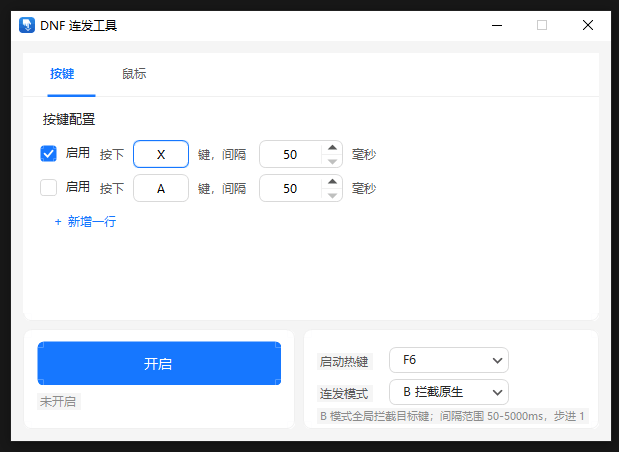
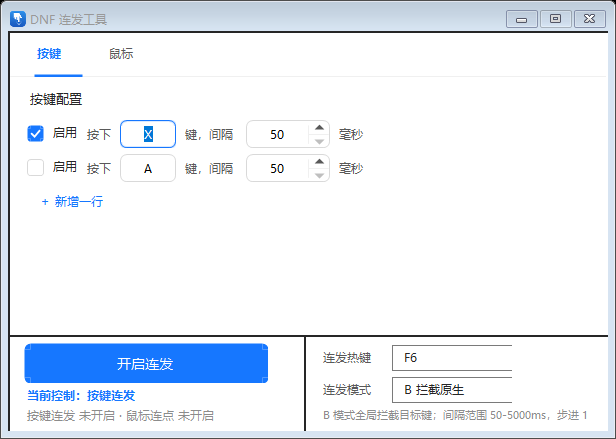
style: 去除留白卡片，改为 2px 深色边框划分三区域
- 移除 AntCard 圆角留白卡片，窗口白底；外框 2px 深色，
  主区/启动区/设置区之间以 2px 深色分隔线区分
- Tab 下边框保持 1px 浅色样式不变
- 按键页行区加高适配新布局；调试入口补 SyncHotkeyUI 同步
- 更新 README 界面预览图

Changed region(s): [[0.0, 0.0, 1.0, 1.0]]

diff --git a/MainForm.cs b/MainForm.cs
@@ -61,7 +61,7 @@ public class MainForm : Form
         FormBorderStyle = FormBorderStyle.FixedSingle;
         MaximizeBox = false;
         StartPosition = FormStartPosition.CenterScreen;
-        BackColor = AntStyle.BgLayout;
+        BackColor = Color.White; // 无留白卡片：白色底 + 深色边框划分区域
         ClientSize = new Size(600, 400);
 
         BuildUi();
@@ -117,6 +117,7 @@ public class MainForm : Form
         mousePage.Visible = true;
         tabHeader.Invalidate();
         RefreshRunCard(); // 与 TabHeader_Click 保持一致，主按钮跟随 Tab
+        SyncHotkeyUI();   // 热键下拉框/标签同步跟随 Tab
     }
 
     /// <summary>调试入口：--enginetest &lt;A|B&gt; &lt;秒&gt;。窗口显示后自动开启连发引擎（默认配置行），数秒后自动关闭退出。</summary>
@@ -487,41 +488,41 @@ public class MainForm : Form
 
     private void BuildUi()
     {
-        var mainCard = new AntCard { Location = new Point(12, 12), Size = new Size(576, 268) };
+        // 主区域（Tab + 配置页）：三个区域（主区/启动区/设置区）以 2px 深色边框分隔，无留白卡片
+        var pnlMain = new Panel { Location = new Point(2, 2), Size = new Size(596, 302), BackColor = Color.White };
 
-        // 自定义 Tab 头（AntD 风格：文字 + 蓝色下划线）
-        tabHeader = new Panel { Location = Point.Empty, Size = new Size(576, 44), BackColor = Color.White };
+        // 自定义 Tab 头（AntD 风格：文字 + 蓝色下划线，下边框 1px 样式不变）
+        tabHeader = new Panel { Location = Point.Empty, Size = new Size(596, 44), BackColor = Color.White };
         tabHeader.Paint += TabHeader_Paint;
         tabHeader.MouseClick += TabHeader_Click;
         tabHeader.MouseMove += TabHeader_Move;
         tabHeader.MouseLeave += (_, _) => { if (_tabHover != -1) { _tabHover = -1; tabHeader.Invalidate(); } };
 
-        keyPage = new Panel { Location = new Point(0, 44), Size = new Size(576, 216), BackColor = Color.White };
-        mousePage = new Panel { Location = new Point(0, 44), Size = new Size(576, 216), BackColor = Color.White, Visible = false };
+        keyPage = new Panel { Location = new Point(0, 44), Size = new Size(596, 258), BackColor = Color.White };
+        mousePage = new Panel { Location = new Point(0, 44), Size = new Size(596, 258), BackColor = Color.White, Visible = false };
         BuildMousePage(mousePage);
 
         BuildKeysPage(keyPage);
 
-        mainCard.Controls.Add(tabHeader);
-        mainCard.Controls.Add(keyPage);
-        mainCard.Controls.Add(mousePage);
-        Controls.Add(mainCard);
+        pnlMain.Controls.Add(tabHeader);
+        pnlMain.Controls.Add(keyPage);
+        pnlMain.Controls.Add(mousePage);
+        Controls.Add(pnlMain);
 
-        // 启动卡片（左下）：单按钮跟随当前 Tab——按键页控制连发、鼠标页控制连点，
-        // 热键同样只作用于当前 Tab 的引擎；"当前控制"标识突出显示目标
-        var cardRun = new AntCard { Location = new Point(12, 288), Size = new Size(272, 100) };
+        // 启动区（左下）：单按钮跟随当前 Tab——按键页控制连发、鼠标页控制连点
+        var pnlRun = new Panel { Location = new Point(2, 306), Size = new Size(294, 92), BackColor = Color.White };
         btnMain = new AntButton
         {
             Kind = AntButton.AntKind.Primary,
             Text = "开启连发",
-            Location = new Point(14, 10),
+            Location = new Point(14, 6),
             Size = new Size(244, 40),
             Font = new Font(AntStyle.FontName, 10f)
         };
         lblTarget = new Label
         {
             Text = "当前控制：按键连发",
-            Location = new Point(14, 56),
+            Location = new Point(14, 50),
             AutoSize = true,
             ForeColor = AntStyle.Primary,
             Font = new Font(AntStyle.FontName, 9f, FontStyle.Bold)
@@ -529,23 +530,23 @@ public class MainForm : Form
         lblStatus = new Label
         {
             Text = "未开启",
-            Location = new Point(14, 78),
+            Location = new Point(14, 70),
             AutoSize = true,
             ForeColor = AntStyle.TextTertiary
         };
-        cardRun.Controls.Add(btnMain);
-        cardRun.Controls.Add(lblTarget);
-        cardRun.Controls.Add(lblStatus);
-        Controls.Add(cardRun);
+        pnlRun.Controls.Add(btnMain);
+        pnlRun.Controls.Add(lblTarget);
+        pnlRun.Controls.Add(lblStatus);
+        Controls.Add(pnlRun);
 
-        // 热键与设置卡片（右下）：热键下拉框跟随当前 Tab——按键页编辑连发热键（默认 F6）、
+        // 设置区（右下）：热键下拉框跟随当前 Tab——按键页编辑连发热键（默认 F6）、
         // 鼠标页编辑连点热键（默认 F8）；两个热键同时全局生效
-        var cardHot = new AntCard { Location = new Point(292, 288), Size = new Size(296, 100) };
-        lblHotkey = new Label { Text = "连发热键", Location = new Point(14, 24), AutoSize = true, ForeColor = AntStyle.TextSec };
-        var lblM = new Label { Text = "连发模式", Location = new Point(14, 56), AutoSize = true, ForeColor = AntStyle.TextSec };
+        var pnlSet = new Panel { Location = new Point(298, 306), Size = new Size(300, 92), BackColor = Color.White };
+        lblHotkey = new Label { Text = "连发热键", Location = new Point(14, 12), AutoSize = true, ForeColor = AntStyle.TextSec };
+        var lblM = new Label { Text = "连发模式", Location = new Point(14, 44), AutoSize = true, ForeColor = AntStyle.TextSec };
 
-        cboStartKey = MakeHotkeySelect(new Point(86, 18));
-        cboMode = new AntSelect { Location = new Point(86, 50), Width = 120 };
+        cboStartKey = MakeHotkeySelect(new Point(86, 8));
+        cboMode = new AntSelect { Location = new Point(86, 40), Width = 120 };
         cboMode.Inner.DropDownWidth = 120;
         cboMode.Inner.Items.Add("B 拦截原生");
         cboMode.Inner.Items.Add("A 保留原生叠加");
@@ -564,17 +565,34 @@ public class MainForm : Form
         var lblModeTip = new Label
         {
             Text = "B 模式全局拦截目标键；间隔范围 50-5000ms，步进 1",
-            Location = new Point(14, 79),
+            Location = new Point(14, 70),
             AutoSize = true,
             ForeColor = AntStyle.TextTertiary,
             Font = new Font(AntStyle.FontName, 8f)
         };
 
-        cardHot.Controls.AddRange(new Control[] { lblHotkey, lblM, cboStartKey, cboMode, lblModeTip });
-        Controls.Add(cardHot);
+        pnlSet.Controls.AddRange(new Control[] { lblHotkey, lblM, cboStartKey, cboMode, lblModeTip });
+        Controls.Add(pnlSet);
 
         // 点击非输入区域时移除输入框焦点样式（面板类控件点击不会自动夺走焦点）
         AttachClearFocus(Controls);
+    }
+
+    /// <summary>区域边框：2px 深色（外框 + 主区/启动区/设置区分隔线），Tab 下边框仍为 1px 样式不变。</summary>
+    protected override void OnPaint(PaintEventArgs e)
+    {
+        base.OnPaint(e);
+        var g = e.Graphics;
+        using var dark = new SolidBrush(Color.FromArgb(38, 38, 38));
+        // 外框 2px
+        g.FillRectangle(dark, 0, 0, Width, 2);             // 上
+        g.FillRectangle(dark, 0, Height - 2, Width, 2);    // 下
+        g.FillRectangle(dark, 0, 0, 2, Height);            // 左
+        g.FillRectangle(dark, Width - 2, 0, 2, Height);    // 右
+        // 主区与底部两区的水平分隔（2px）
+        g.FillRectangle(dark, 2, 304, Width - 4, 2);
+        // 启动区与设置区的垂直分隔（2px）
+        g.FillRectangle(dark, 296, 306, 2, Height - 308);
     }
 
     private void AttachClearFocus(Control.ControlCollection controls)
@@ -722,7 +740,7 @@ public class MainForm : Form
         pnlRows = new Panel
         {
             Location = new Point(16, 40),
-            Size = new Size(528, 168),
+            Size = new Size(528, 210),
             BackColor = Color.White
         };
         scrollBar = new FlatScrollBar
